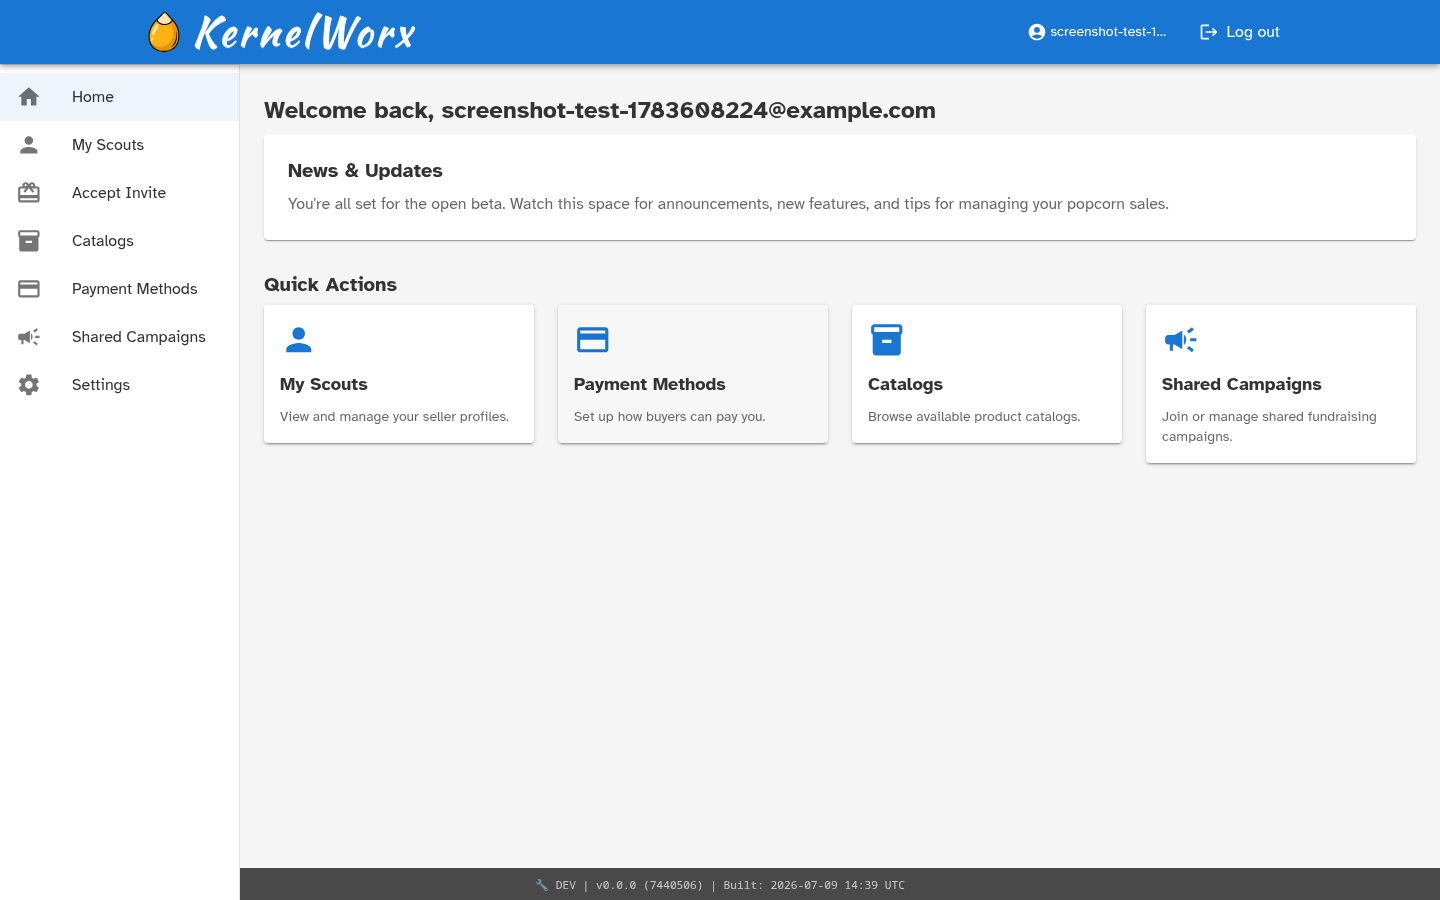
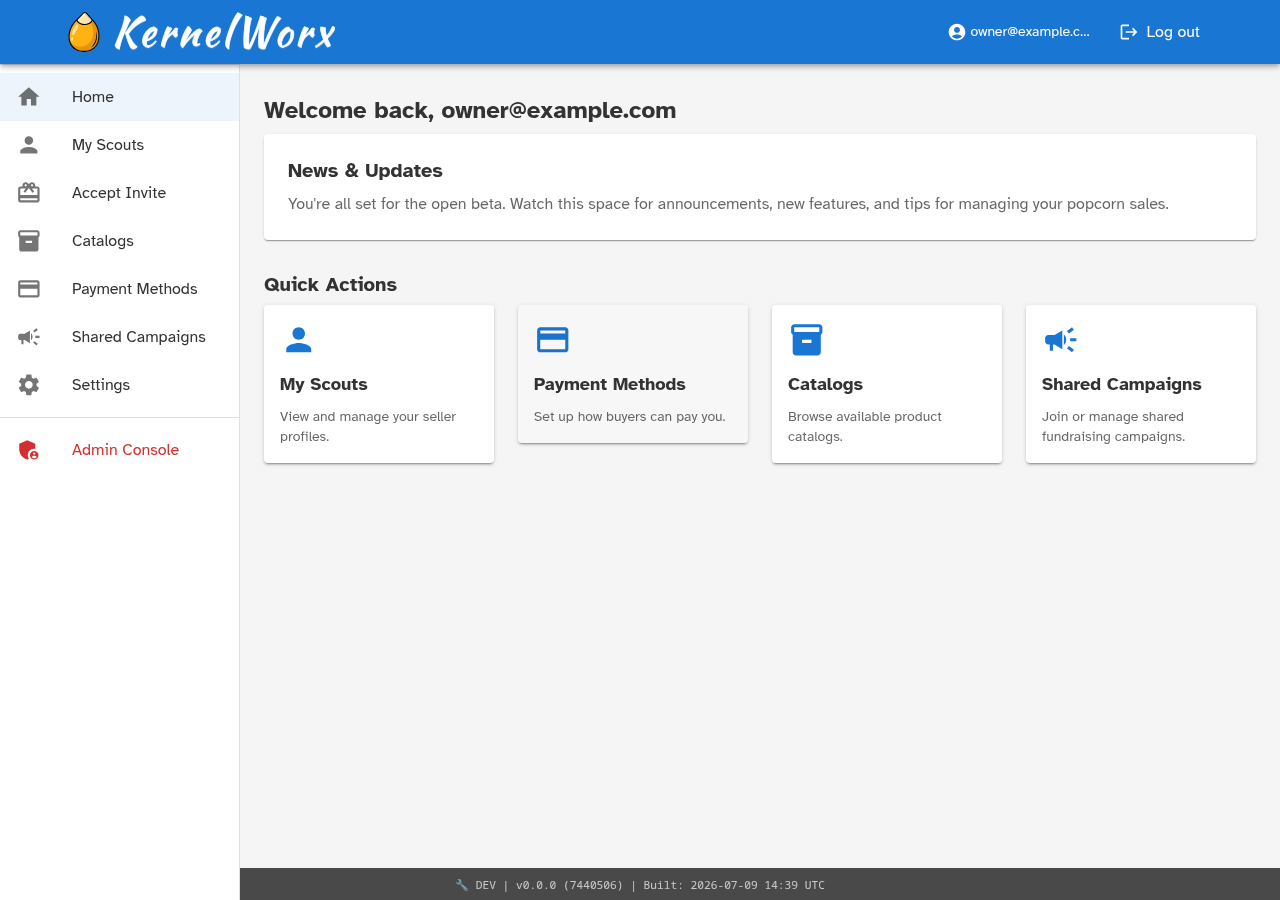
Add screenshot lightbox and re-capture focused feature screenshots
- Add click-to-expand lightbox on LandingPage feature screenshots
- Re-capture focused/zoomed screenshots for Scouts and Payment Methods cards
- Update home-page.png with current test owner user

diff --git a/frontend/src/pages/LandingPage.tsx b/frontend/src/pages/LandingPage.tsx
@@ -22,6 +22,9 @@ import {
   Grid,
   Card,
   CardContent,
+  Dialog,
+  DialogContent,
+  IconButton,
 } from '@mui/material';
 import {
   Login as LoginIcon,
@@ -31,6 +34,8 @@ import {
   Code as CodeIcon,
   Payment as PaymentIcon,
   Favorite as FavoriteIcon,
+  Close as CloseIcon,
+  ZoomIn as ZoomInIcon,
 } from '@mui/icons-material';
 import { useAuth } from '../contexts/AuthContext';
 
@@ -40,9 +45,17 @@ interface FeatureCardProps {
   icon: React.ReactNode;
   screenshot?: string;
   screenshotAlt?: string;
+  onScreenshotClick?: (src: string, alt: string) => void;
 }
 
-const FeatureCard: React.FC<FeatureCardProps> = ({ title, description, icon, screenshot, screenshotAlt }) => (
+const FeatureCard: React.FC<FeatureCardProps> = ({
+  title,
+  description,
+  icon,
+  screenshot,
+  screenshotAlt,
+  onScreenshotClick,
+}) => (
   <Card elevation={2} sx={{ height: '100%' }}>
     <CardContent>
       <Stack spacing={2}>
@@ -65,21 +78,52 @@ const FeatureCard: React.FC<FeatureCardProps> = ({ title, description, icon, scr
         </Typography>
         {screenshot ? (
           <Box
-            component="img"
-            src={screenshot}
-            alt={screenshotAlt || title}
+            onClick={() => onScreenshotClick?.(screenshot, screenshotAlt || title)}
             sx={{
               mt: 2,
-              width: '100%',
-              height: 160,
-              objectFit: 'cover',
-              objectPosition: 'top',
+              position: 'relative',
               borderRadius: 1,
               border: '1px solid',
               borderColor: 'divider',
-              display: 'block',
+              overflow: 'hidden',
+              cursor: 'pointer',
+              '&:hover .zoom-overlay': {
+                opacity: 1,
+              },
+              '&:hover img': {
+                transform: 'scale(1.02)',
+              },
             }}
-          />
+          >
+            <Box
+              component="img"
+              src={screenshot}
+              alt={screenshotAlt || title}
+              sx={{
+                width: '100%',
+                height: 160,
+                objectFit: 'cover',
+                objectPosition: 'top',
+                display: 'block',
+                transition: 'transform 0.2s ease-in-out',
+              }}
+            />
+            <Box
+              className="zoom-overlay"
+              sx={{
+                position: 'absolute',
+                inset: 0,
+                bgcolor: 'rgba(0, 0, 0, 0.4)',
+                display: 'flex',
+                alignItems: 'center',
+                justifyContent: 'center',
+                opacity: 0,
+                transition: 'opacity 0.2s ease-in-out',
+              }}
+            >
+              <ZoomInIcon sx={{ color: 'white', fontSize: 32 }} />
+            </Box>
+          </Box>
         ) : (
           <Box
             sx={{
@@ -142,6 +186,8 @@ const Step: React.FC<StepProps> = ({ number, title, description }) => (
 export const LandingPage: React.FC = () => {
   const navigate = useNavigate();
   const { isAuthenticated } = useAuth();
+  const [lightboxOpen, setLightboxOpen] = React.useState(false);
+  const [lightboxImage, setLightboxImage] = React.useState<{ src: string; alt: string } | null>(null);
 
   const handleLogin = () => {
     if (isAuthenticated) {
@@ -149,6 +195,16 @@ export const LandingPage: React.FC = () => {
     } else {
       navigate('/login');
     }
+  };
+
+  const handleScreenshotClick = (src: string, alt: string) => {
+    setLightboxImage({ src, alt });
+    setLightboxOpen(true);
+  };
+
+  const handleCloseLightbox = () => {
+    setLightboxOpen(false);
+    setLightboxImage(null);
   };
 
   return (
@@ -285,6 +341,7 @@ export const LandingPage: React.FC = () => {
                   icon={<PeopleIcon />}
                   screenshot="/marketing/scouts-page.png"
                   screenshotAlt="My Scouts page showing seller management"
+                  onScreenshotClick={handleScreenshotClick}
                 />
               </Grid>
               <Grid size={{ xs: 12, sm: 6, lg: 3 }}>
@@ -301,6 +358,7 @@ export const LandingPage: React.FC = () => {
                   icon={<PaymentIcon />}
                   screenshot="/marketing/payment-methods-page.png"
                   screenshotAlt="Payment Methods page showing built-in and custom payment options"
+                  onScreenshotClick={handleScreenshotClick}
                 />
               </Grid>
               <Grid size={{ xs: 12, sm: 6, lg: 3 }}>
@@ -425,6 +483,50 @@ export const LandingPage: React.FC = () => {
           </Box>
         </Stack>
       </Container>
+
+      {/* Screenshot lightbox */}
+      <Dialog
+        open={lightboxOpen}
+        onClose={handleCloseLightbox}
+        maxWidth="lg"
+        fullWidth
+        PaperProps={{ sx: { bgcolor: 'background.paper', borderRadius: 2 } }}
+      >
+        <Box sx={{ position: 'relative' }}>
+          <IconButton
+            onClick={handleCloseLightbox}
+            sx={{
+              position: 'absolute',
+              top: 8,
+              right: 8,
+              bgcolor: 'rgba(0, 0, 0, 0.5)',
+              color: 'white',
+              '&:hover': { bgcolor: 'rgba(0, 0, 0, 0.7)' },
+              zIndex: 1,
+            }}
+            aria-label="Close screenshot preview"
+          >
+            <CloseIcon />
+          </IconButton>
+          <DialogContent sx={{ p: 1 }}>
+            {lightboxImage && (
+              <Box
+                component="img"
+                src={lightboxImage.src}
+                alt={lightboxImage.alt}
+                sx={{
+                  width: '100%',
+                  height: 'auto',
+                  maxHeight: '80vh',
+                  objectFit: 'contain',
+                  display: 'block',
+                  borderRadius: 1,
+                }}
+              />
+            )}
+          </DialogContent>
+        </Box>
+      </Dialog>
     </Box>
   );
 };